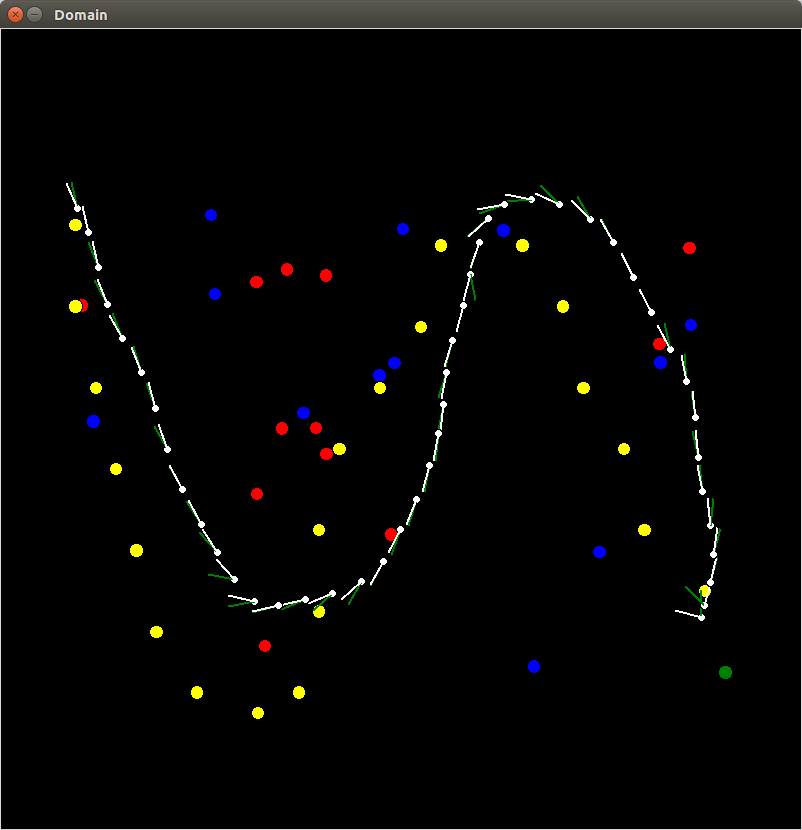
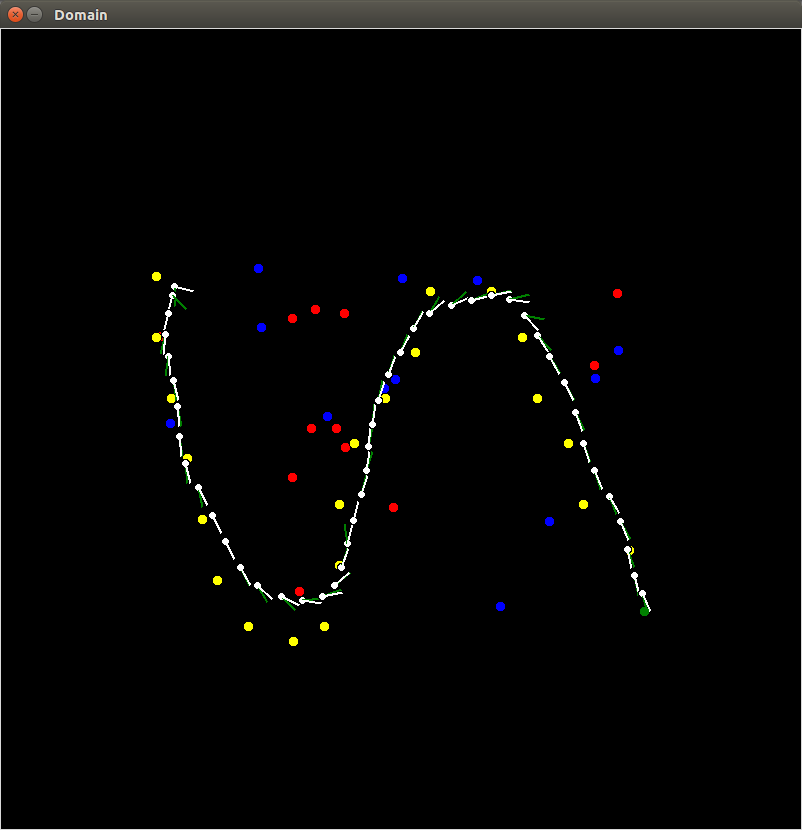
reflex the coordiate. border change

diff --git a/humanWeightReplay.py b/humanWeightReplay.py
@@ -38,7 +38,7 @@ def main(domainFrom, domainTo, domainDemo = None):
     """
     shift to the scale of the GraphWin
     """
-    return (1.0 * (loc[0] - mdp.xBoundary[0]) / size * dim, 1.0 * (loc[1] - mdp.yBoundary[0]) / size * dim)
+    return (1.0 * (mdp.xBoundary[1] - loc[0]) / size * dim, 1.0 * (mdp.yBoundary[1] - loc[1]) / size * dim)
  
   def plotCircle(win, loc, color):
     cir = Circle(Point(shift(loc)), 4)
@@ -109,4 +109,6 @@ def parseHumanActions(filename, domainId):
 
 if __name__ == '__main__':
   #main(0, 8)
-  main(24, 31)
+  #main(24, 31)
+  #main(8, 16)
+  main(16, 24, 17)

diff --git a/continuousWorld.py b/continuousWorld.py
@@ -275,8 +275,8 @@ def loadFromMat(filename, domainId):
   ret['objs'] = {'targs': targs, 'obsts': obsts, 'segs': segs, 'elevators': elevators}
 
   # TODO add buffer?
-  ret['xBoundary'] = [-3, 3]
-  ret['yBoundary'] = [-3, 3]
+  ret['xBoundary'] = [-4, 4]
+  ret['yBoundary'] = [-4, 4]
 
   # radius of an object (so the object doesn't appear as a point)
   ret['radius'] = 0.05
